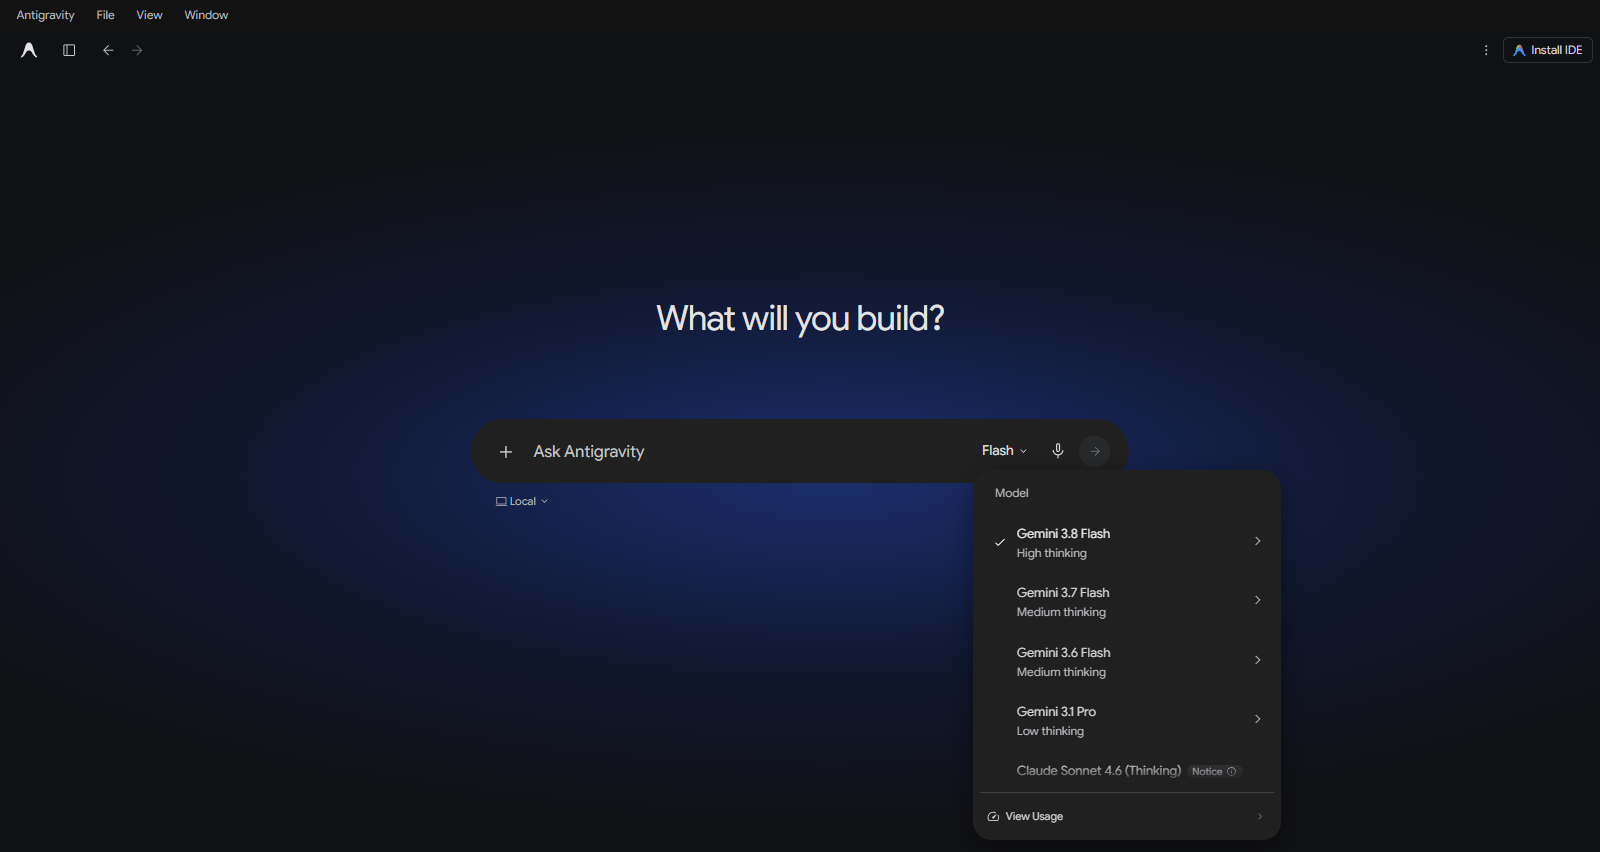
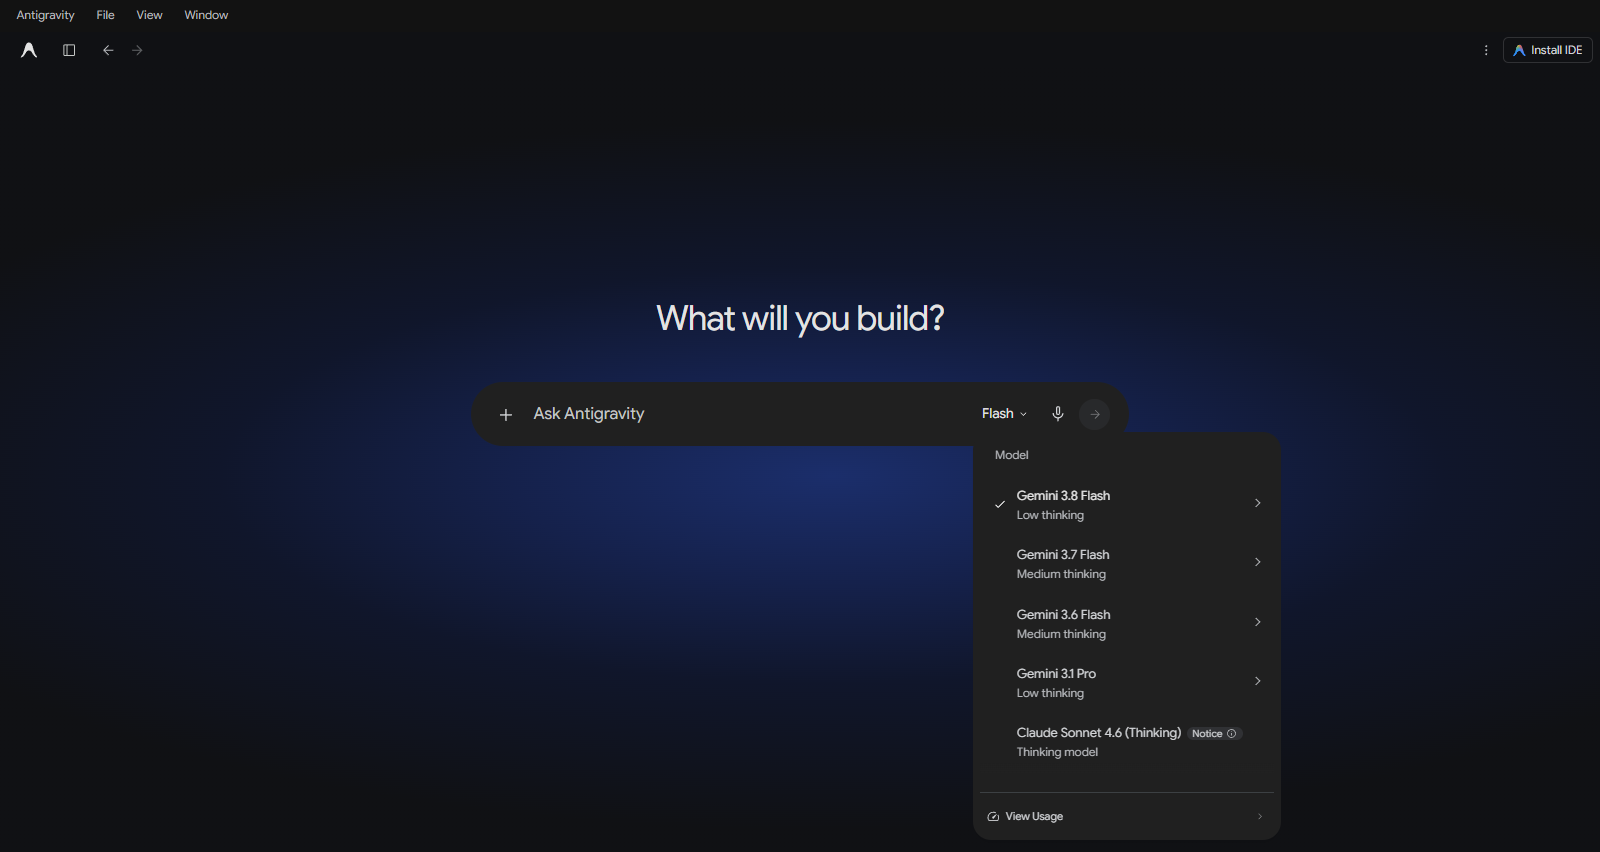
Refine composer menus and group workspace controls

Changed region(s): [[0.2812, 0.4272, 0.8125, 0.6103], [0.625, 0.5798, 0.7812, 0.9155]]

diff --git a/theme/enhance.js b/theme/enhance.js
@@ -1,8 +1,96 @@
 // Small, idempotent DOM annotations; all Antigravity controls stay native.
 (() => {
-  if (globalThis.__antigravityGeminiStyleV2) return;
-  globalThis.__antigravityGeminiStyleV2 = true;
+  if (globalThis.__antigravityGeminiStyleV3) return;
+  globalThis.__antigravityGeminiStyleV3 = true;
   const css = __GEMINI_CSS__;
+  const workspace = { open: false, plus: null, project: null, environment: null, panel: null };
+  function closeWorkspace(restoreFocus = false) {
+    // Dismiss child popups through their native handler before hiding the anchor.
+    // Otherwise Base UI can leave an invisible modal backdrop over the editor.
+    for (const root of [workspace.project, workspace.environment]) {
+      const trigger = root?.querySelector('[aria-expanded="true"][aria-controls]');
+      const popup = trigger && document.getElementById(trigger.getAttribute('aria-controls'));
+      popup?.dispatchEvent(new KeyboardEvent('keydown', {key: 'Escape', code: 'Escape', bubbles: true, cancelable: true}));
+    }
+    workspace.open = false;
+    workspace.panel?.remove();
+    workspace.panel = null;
+    document.documentElement.removeAttribute('data-gemini-workspace-open');
+    if (restoreFocus) workspace.plus?.focus();
+  }
+  function positionWorkspace() {
+    if (!workspace.open || !workspace.plus?.isConnected) return;
+    const rect = workspace.plus.getBoundingClientRect();
+    const height = workspace.project ? 164 : 112;
+    const width = Math.min(320, innerWidth - 24);
+    const left = Math.max(12, Math.min(rect.left - 8, innerWidth - width - 12));
+    const top = rect.bottom + height + 16 <= innerHeight ? rect.bottom + 16 : Math.max(12, rect.top - height - 16);
+    const root = document.documentElement;
+    for (const [key, value] of Object.entries({left, top, width, height})) root.style.setProperty('--gemini-workspace-' + key, value + 'px');
+  }
+  function openWorkspace() {
+    if (workspace.plus?.getAttribute('aria-expanded') === 'true') {
+      document.getElementById(workspace.plus.getAttribute('aria-controls'))?.dispatchEvent(new KeyboardEvent('keydown', {key: 'Escape', code: 'Escape', bubbles: true, cancelable: true}));
+    }
+    closeWorkspace();
+    workspace.open = true;
+    const panel = document.createElement('div');
+    panel.className = 'gemini-workspace-panel';
+    panel.setAttribute('role', 'group');
+    panel.setAttribute('aria-label', 'Workspace');
+    panel.setAttribute('aria-owns', [workspace.project?.id, workspace.environment?.id].filter(Boolean).join(' '));
+    const heading = document.createElement('span');
+    heading.textContent = 'Workspace';
+    panel.append(heading);
+    const close = document.createElement('button');
+    close.type = 'button';
+    close.className = 'gemini-workspace-close';
+    close.setAttribute('aria-label', 'Close workspace');
+    close.innerHTML = '<svg viewBox="0 0 24 24" aria-hidden="true"><path d="m6 6 12 12M18 6 6 18"/></svg>';
+    close.addEventListener('click', () => closeWorkspace(true));
+    panel.append(close);
+    workspace.panel = panel;
+    let mount = workspace.project || workspace.environment;
+    const other = workspace.environment || workspace.project;
+    while (mount && (!mount.contains(other) || mount === other)) mount = mount.parentElement;
+    (mount || document.body).append(panel);
+    mark(document.documentElement, 'data-gemini-workspace-open', workspace.project ? 'project-and-environment' : 'environment');
+    positionWorkspace();
+    (workspace.project?.querySelector('button') || workspace.environment?.querySelector('button') || close).focus();
+  }
+  function annotateWorkspace(plus, project, environment) {
+    if (workspace.open && (workspace.plus !== plus || workspace.project !== project || workspace.environment !== environment)) closeWorkspace();
+    workspace.plus = plus;
+    workspace.project = project;
+    workspace.environment = environment;
+    // Native focus restoration can reopen a popup after its anchor is hidden.
+    // Keep the native modal state in sync with Workspace visibility.
+    if (!document.documentElement.hasAttribute('data-gemini-workspace-open') &&
+        (project?.querySelector('[aria-expanded="true"]') || environment?.querySelector('[aria-expanded="true"]'))) {
+      closeWorkspace();
+    }
+    if (project) {
+      mark(project, 'data-gemini-workspace-project');
+      if (!project.id) project.id = 'gemini-workspace-project';
+    }
+    if (environment) {
+      mark(environment, 'data-gemini-workspace-environment');
+      if (!environment.id) environment.id = 'gemini-workspace-environment';
+      mark(environment.closest('.h-fit'), 'data-gemini-runtime-footer');
+    }
+    const menu = plus?.getAttribute('aria-expanded') === 'true' ? document.getElementById(plus.getAttribute('aria-controls')) : null;
+    if (!menu || (!project && !environment)) return;
+    mark(menu, 'data-gemini-context-menu');
+    const existing = menu.querySelector('.gemini-workspace-menu-item');
+    if (existing) { existing.removeAttribute('aria-haspopup'); return; }
+    const row = document.createElement('button');
+    row.type = 'button';
+    row.className = 'gemini-workspace-menu-item';
+    row.setAttribute('role', 'menuitem');
+    row.setAttribute('tabindex', '-1');
+    row.innerHTML = '<svg viewBox="0 0 24 24" aria-hidden="true"><path d="M3 7h7l2 2h9v11H3V7Z"/></svg><span>Workspace</span><svg class="gemini-workspace-chevron" viewBox="0 0 24 24" aria-hidden="true"><path d="m9 6 6 6-6 6"/></svg>';
+    menu.append(row);
+  }
   function mark(element, attribute, value = '') {
     if (element && element.getAttribute(attribute) !== value) element.setAttribute(attribute, value);
   }
@@ -95,10 +183,20 @@
     const container = input.closest('[id="antigravity.agentSidePanelInputBox"]');
     const surface = [...(container?.children || [])].find(element => element.contains(input));
     mark(surface, 'data-gemini-composer-surface');
+    const navigation = [...document.querySelectorAll('[data-gemini-nav-tools]')].find(element => !element.closest('[data-aux-pane-open]'));
+    const titleBar = document.querySelector('[data-testid="title-menu-bar"]');
+    const boundary = Math.max(navigation?.getBoundingClientRect().bottom || 0, titleBar?.getBoundingClientRect().bottom || 0);
+    const available = Math.max(96, Math.min(360, Math.floor((surface?.getBoundingClientRect().top || 0) - boundary - 12)));
+    for (const menu of document.querySelectorAll('[data-mention-menu], [data-command-menu]')) {
+      if (menu.style.getPropertyValue('--gemini-typeahead-height') !== available + 'px') menu.style.setProperty('--gemini-typeahead-height', available + 'px');
+    }
     mark([...(surface?.children || [])].find(element => element.contains(input)), 'data-gemini-composer-editor');
     const controls = [...(surface?.children || [])].find(element => element.querySelector('[aria-label="Add context"]'));
     mark(controls, 'data-gemini-composer-controls');
     mark(controls?.querySelector('[aria-label="Add context"]')?.parentElement, 'data-gemini-context-cluster');
+    const project = document.querySelector('[data-testid="project-selector-trigger"]')?.closest('.relative.w-full');
+    const environment = document.querySelector('[aria-label="Select Environment"]')?.parentElement?.parentElement;
+    annotateWorkspace(controls?.querySelector('[aria-label="Add context"]'), project, environment);
     const placeholder = input.nextElementSibling;
     if (placeholder?.tagName === 'P' && placeholder.textContent !== 'Ask Antigravity') {
       mark(input, 'title', 'Ask Antigravity. Use @ to mention context or / for actions.');
@@ -144,7 +242,42 @@
   }
   function start() {
     annotate();
-    new MutationObserver(schedule).observe(document.documentElement, {childList: true, subtree: true, attributes: true, attributeFilter: ['style', 'class']});
+    new MutationObserver(schedule).observe(document.documentElement, {childList: true, subtree: true, attributes: true, attributeFilter: ['style', 'class', 'aria-expanded', 'aria-controls', 'aria-label', 'data-active-tab-id']});
+    const handleWorkspaceClick = event => {
+      if (!event.target.closest('.gemini-workspace-menu-item')) return;
+      event.preventDefault(); event.stopPropagation(); openWorkspace();
+    };
+    // Register at the document boundary so the native menu retains its own handlers.
+    const handleWorkspaceKeys = event => {
+      const menu = document.querySelector('[data-gemini-context-menu]');
+      const row = menu?.querySelector('.gemini-workspace-menu-item');
+      if (!row || !menu.contains(document.activeElement)) return;
+      const items = [...menu.querySelectorAll('[role="menuitem"]')].filter(item => item !== row && !item.hasAttribute('data-disabled'));
+      const active = document.activeElement;
+      if (event.key === 'End' || event.key === 'ArrowDown' && active === items.at(-1) || event.key === 'ArrowUp' && active === items[0]) {
+        event.preventDefault(); event.stopPropagation(); row.focus();
+      } else if (active === row && ['ArrowUp', 'ArrowDown', 'Home', 'Enter', ' '].includes(event.key)) {
+        event.preventDefault(); event.stopPropagation();
+        if (event.key === 'Enter' || event.key === ' ') openWorkspace();
+        else (event.key === 'ArrowUp' ? items.at(-1) : items[0])?.focus();
+      }
+    };
+    globalThis.__geminiWorkspaceEvents = {click: handleWorkspaceClick, keydown: handleWorkspaceKeys};
+    if (!globalThis.__geminiWorkspaceEventsBound) {
+      globalThis.__geminiWorkspaceEventsBound = true;
+      addEventListener('click', event => globalThis.__geminiWorkspaceEvents.click(event), true);
+      addEventListener('keydown', event => globalThis.__geminiWorkspaceEvents.keydown(event), true);
+    }
+    document.addEventListener('pointerdown', event => {
+      if (!workspace.open || event.target.closest('.gemini-workspace-panel, [data-gemini-workspace-project], [data-gemini-workspace-environment], [role="menu"], [role="dialog"]')) return;
+      closeWorkspace();
+    }, true);
+    document.addEventListener('keydown', event => {
+      if (!workspace.open || event.key !== 'Escape') return;
+      if (workspace.project?.querySelector('[aria-expanded="true"]') || workspace.environment?.querySelector('[aria-expanded="true"]')) return;
+      event.preventDefault(); closeWorkspace(true);
+    });
+    addEventListener('resize', () => { positionWorkspace(); schedule(); });
   }
   if (document.readyState === 'loading') document.addEventListener('DOMContentLoaded', start, {once: true});
   else start();

diff --git a/theme/gemini.css b/theme/gemini.css
@@ -74,6 +74,43 @@ body { background: #101010 !important; }
 [data-gemini-home] [data-gemini-composer-column] { max-width: 720px !important; }
 [data-testid="project-selector-trigger"] { color: #c4c7c5 !important; font-size: 13px; }
 [data-gemini-home] [data-testid="project-selector-trigger"] { margin-bottom: 5px; }
+/* Keep coding settings behind + > Workspace, using the original native controls. */
+[data-gemini-workspace-project], [data-gemini-workspace-environment] { display: none !important; }
+[data-gemini-runtime-footer] { display: contents; }
+[data-gemini-runtime-footer] > div { padding: 0 !important; min-height: 0; }
+[data-gemini-runtime-footer] > div > div:empty { display: none; }
+[data-gemini-workspace-open] [data-gemini-workspace-project],
+[data-gemini-workspace-open] [data-gemini-workspace-environment] { display: flex !important; position: fixed !important; left: calc(var(--gemini-workspace-left) + 12px); width: calc(var(--gemini-workspace-width) - 24px) !important; z-index: 1002; margin: 0 !important; }
+[data-gemini-workspace-open] [data-gemini-workspace-project] { top: calc(var(--gemini-workspace-top) + 46px); }
+[data-gemini-workspace-open] [data-gemini-workspace-environment] { top: calc(var(--gemini-workspace-top) + 98px); }
+[data-gemini-workspace-open="environment"] [data-gemini-workspace-environment] { top: calc(var(--gemini-workspace-top) + 46px); }
+[data-gemini-workspace-open] [data-testid="project-selector-trigger"],
+[data-gemini-workspace-open] [aria-label="Select Environment"] { min-height: 44px; width: 100% !important; max-width: 100% !important; justify-content: flex-start; padding: 10px 12px !important; gap: 12px !important; border-radius: 12px; background: transparent; color: #e3e3e3 !important; font-size: 16px !important; }
+[data-gemini-workspace-open] [data-testid="project-selector-trigger"] > svg:last-child,
+[data-gemini-workspace-open] [aria-label="Select Environment"] > svg:last-child { margin-left: auto; }
+[data-gemini-workspace-open] [data-testid="project-selector-trigger"] > svg:first-child,
+[data-gemini-workspace-open] [aria-label="Select Environment"] > svg:first-child { width: 20px; height: 20px; }
+.gemini-workspace-panel { position: fixed; left: var(--gemini-workspace-left); top: var(--gemini-workspace-top); width: var(--gemini-workspace-width); height: var(--gemini-workspace-height); padding: 16px 24px; border-radius: 20px; background: #202020; color: #b6b8bc; font-size: 14px; box-shadow: 0 8px 30px #0006; z-index: 1; }
+.gemini-workspace-close { position: absolute; right: 10px; top: 8px; width: 32px; height: 32px; padding: 6px; border-radius: 50%; color: #c4c7c5; }
+.gemini-workspace-close:hover { background: #303134; }
+.gemini-workspace-close svg, .gemini-workspace-menu-item svg { width: 20px; height: 20px; fill: none; stroke: currentColor; stroke-width: 1.7; stroke-linecap: round; stroke-linejoin: round; }
+[data-gemini-context-menu] { min-width: 260px; }
+[data-gemini-context-menu] [role="presentation"] { padding: 8px 16px; font-size: 13px; color: #b6b8bc; }
+[data-gemini-context-menu] [role="menuitem"] { min-height: 48px; padding: 12px 16px !important; gap: 14px !important; font-size: 16px !important; }
+[data-gemini-context-menu] [role="menuitem"] > svg { width: 20px !important; height: 20px !important; }
+.gemini-workspace-menu-item { display: flex; align-items: center; width: 100%; border: 0; border-top: 1px solid #3c4043; margin-top: 8px; background: transparent; color: #e3e3e3; cursor: pointer; text-align: left; }
+.gemini-workspace-menu-item:hover, .gemini-workspace-menu-item:focus { background: #303134; }
+.gemini-workspace-chevron { margin-left: auto; }
+/* Native @ and / suggestions share the model menu's readable row rhythm. */
+[data-mention-menu], [data-command-menu], [role="listbox"][aria-label="Actions"], [role="listbox"][aria-label="Commands"] { border: 0 !important; border-radius: 20px !important; background: #202020 !important; box-shadow: 0 8px 30px #0006 !important; margin-bottom: 12px !important; max-height: var(--gemini-typeahead-height, min(360px, calc(100dvh - 160px))); overflow: hidden; }
+[data-mention-menu] > div, [data-command-menu] > div { padding: 8px !important; max-height: calc(var(--gemini-typeahead-height, min(360px, calc(100dvh - 160px))) - 16px) !important; }
+[data-mention-menu] [role="option"], [data-command-menu] [role="option"] { border-radius: 12px; overflow: hidden; }
+[data-mention-menu] [role="option"] > div, [data-command-menu] [role="option"] > div { min-height: 48px; padding: 12px 16px !important; gap: 14px !important; border-radius: 12px; }
+[data-mention-menu] [role="option"][aria-selected="true"] > div, [data-command-menu] [role="option"][aria-selected="true"] > div { background: #303134 !important; }
+[data-mention-menu] [role="option"]:hover > div, [data-command-menu] [role="option"]:hover > div { background: #303134 !important; }
+[data-mention-menu] [role="option"] svg, [data-command-menu] [role="option"] svg { width: 20px; height: 20px; }
+[data-mention-menu] [data-testid="menu-option-label"], [data-command-menu] [data-testid="menu-option-label"] { font-size: 16px !important; line-height: 24px; color: #e3e3e3; }
+[data-mention-menu] [data-testid="menu-option-description"], [data-command-menu] [data-testid="menu-option-description"] { font-size: 14px !important; line-height: 20px; color: #b6b8bc !important; opacity: 1 !important; }
 [id="antigravity.agentSidePanelInputBox"] { border-radius: 32px !important; background: transparent !important; padding: 0 !important; }
 [data-gemini-composer-surface] { display: flex !important; flex-direction: row !important; align-items: center; min-height: 70px; gap: 4px !important; padding: 12px 20px !important; background: #202020 !important; border-radius: 36px !important; }
 [data-testid="agent-input-box"] > div:first-child:empty { display: none; }

diff --git a/README.md b/README.md
@@ -8,11 +8,20 @@ This is an **unofficial local theme installer** that modifies the app's Electron
 
 ![Actual Antigravity app with the theme applied](docs/preview.png)
 
-Actual screenshots of the themed Antigravity 2.19.1 app. The sidebar is collapsed and the project selector is hidden for privacy.
+Actual screenshots of the themed Antigravity 2.19.1 app. The sidebar is collapsed for privacy.
 
 ![Native Antigravity model picker with the theme applied](docs/model-picker.png)
 
 The model picker is Antigravity's real menu. Available models depend on your account and the app's current offerings.
+
+<details>
+<summary>See native action and mention menus</summary>
+
+![Native slash-command menu with the theme applied](docs/actions.png)
+
+![Native mention menu with the theme applied](docs/mentions.png)
+
+</details>
 
 ## Install
 
@@ -66,6 +75,8 @@ Keep them until you have restored or reinstalled Antigravity. Restore retains th
 
 - Dark surfaces, Google Sans Flex typography, and pale blue focus accents.
 - A single rounded input bar with native context, model, microphone, and send controls.
+- Project and environment selection under **+ → Workspace**, keeping extra rows off the resting composer.
+- Roomier native `/` and `@` suggestions with readable descriptions and a scrollable menu that fits above the composer.
 - Compact model labels, a selected checkmark, and native reasoning submenus.
 - Rounded user messages, readable replies, and feedback actions aligned beneath them.
 - Coding activity disclosures and a task summary that starts collapsed; expand it to inspect running tasks.
@@ -73,6 +84,8 @@ Keep them until you have restored or reinstalled Antigravity. Restore retains th
 - Header spacing that keeps branding, sidebar toggle, history arrows, and breadcrumbs aligned.
 
 The available models and reasoning options come from Antigravity. This theme does not add models or a reasoning slider.
+
+To change the project or local/cloud environment, open **+**, choose **Workspace**, and use the original project or environment selector. The added Workspace entry works with arrow keys and Enter; Escape closes the settings surface. Native media, mention, action, and browser entries stay available under **+**.
 
 ## Updates and troubleshooting
 

diff --git a/docs/design.md b/docs/design.md
@@ -23,4 +23,8 @@ The compact model label retains the full native accessible label and tooltip. Th
 
 The theme annotates existing DOM nodes, adds a stylesheet, a greeting, a brand label, model descriptions, and the small AI notice. A newly rendered running-task panel starts collapsed using its native disclosure button. It does not alter requests, authentication, files, model routing, or terminal execution.
 
-The README images are captures of the actual themed Antigravity 2.19.1 app, including its native model picker. The navigation sidebar is collapsed and the project selector is hidden during capture to protect private project details. No sample conversations or replacement controls are rendered for the screenshots.
+Project and environment selectors appear in **+ → Workspace**, using the original native buttons in their existing React DOM positions. The nonmodal settings group closes with Escape or its close button. A delegated keyboard handler includes Workspace in the native context menu's arrow-key cycle.
+
+Native `/` and `@` suggestions use 20px corners, 48px rows, 16px labels, and 14px descriptions. The scroll limit comes from the actual gap between the composer and header, preserving the complete upper edge in wide and narrow windows.
+
+The README images are captures of the actual themed Antigravity 2.19.1 app, including its native model picker, actions, and mentions. The navigation sidebar is collapsed during capture to protect private project details. No sample conversations or replacement controls are rendered for the screenshots.
